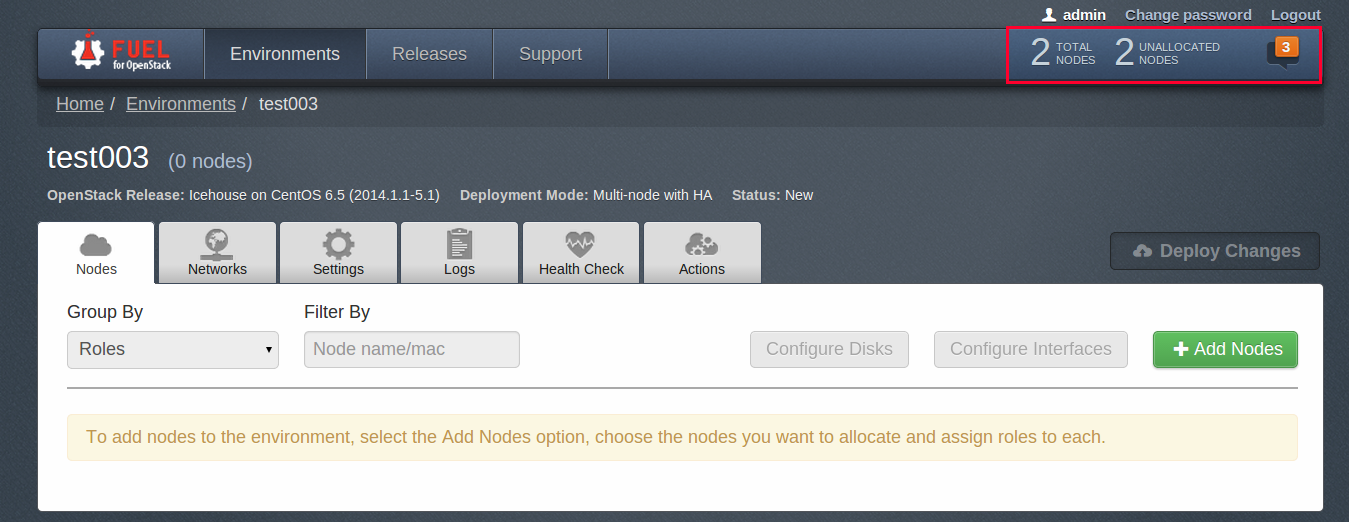
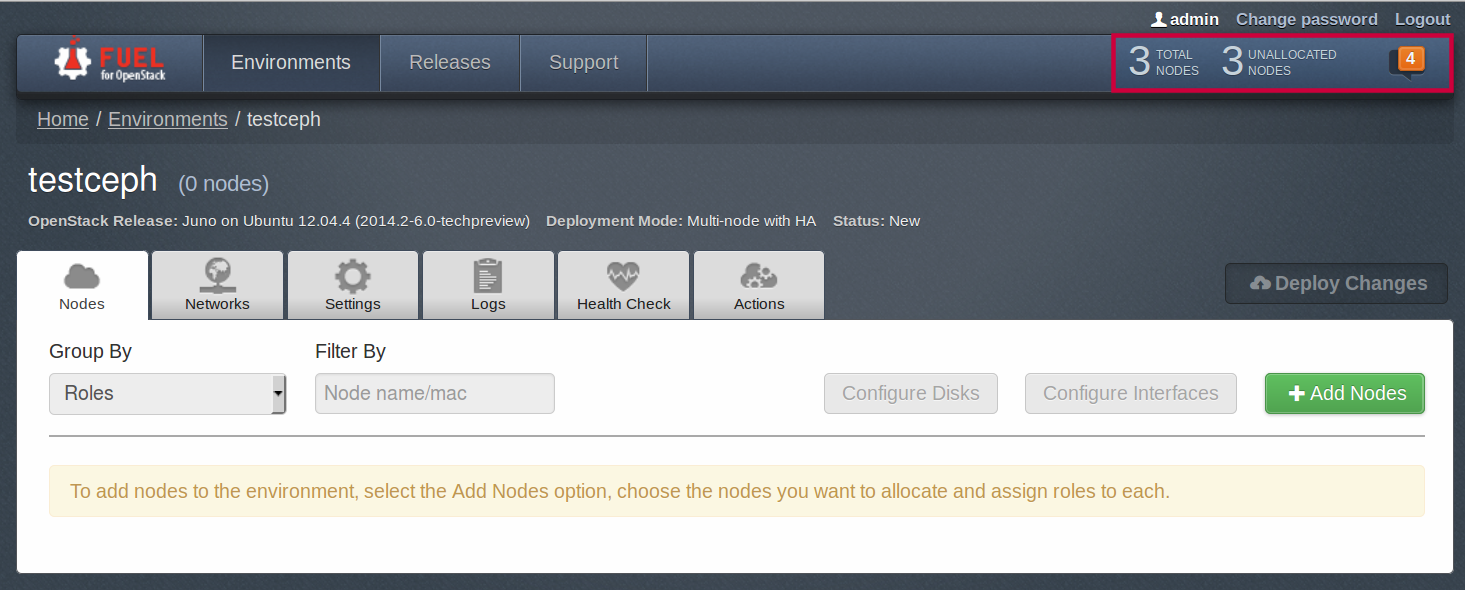
Screen shots for roles and nodes
Updated screen shots to match 6.0 screens.

add-nodes1.png shows the release number so will have to be updated for GA

diff --git a/pages/user-guide/config-environment/1000-assign-roles.rst b/pages/user-guide/config-environment/1000-assign-roles.rst
@@ -26,13 +26,14 @@ and a list of unallocated nodes at the bottom.
 
 To assign roles to the nodes:
 
-- Select the role or roles you want to assign
-- Click on the appropriate node(s) in the "Unallocated Nodes" list
+- Select the role or roles you want to assign;
+  roles that cannot be assigned are indicated.
+- Click on the appropriate node(s) in the "Unallocated Nodes" list.
 - Click on the "Apply Changes" button.
 - Proceed to do this until all roles have been assigned to all nodes.
 
 In this example,
-both the "Compute" and "Storage - Cinder LVM" roles
+both the "Compute" and "Storage - Ceph OSD" roles
 are being assigned to this node.
 
 As you make your selections,
@@ -40,12 +41,16 @@ Fuel displays information about combinations
 that are not allowed
 and other configurations that are required.
 For example, in this sample screen,
-it tells you that the Controller role
-cannot be combined with the Compute and Cinder LVM roles
-that you have selected.
+it tells you that the "Controller", "Storage - Cinder LVM",
+and "Telemetry - MongoDB" roles
+are not valid choices,
+either because they cannot be combined with the selected roles
+or, in the case of Cinder LVM,
+because this environment was deployed to use Ceph
+rather than Cinder LVM.
 
-.. note:: The Zabbix role appears on this screen
-          only after you have enabled
+.. note:: The Zabbix role also appears on this screen
+          when you have enabled
           :ref:`experimental features<experimental-features-term>`
           on the Fuel Master node.
 
